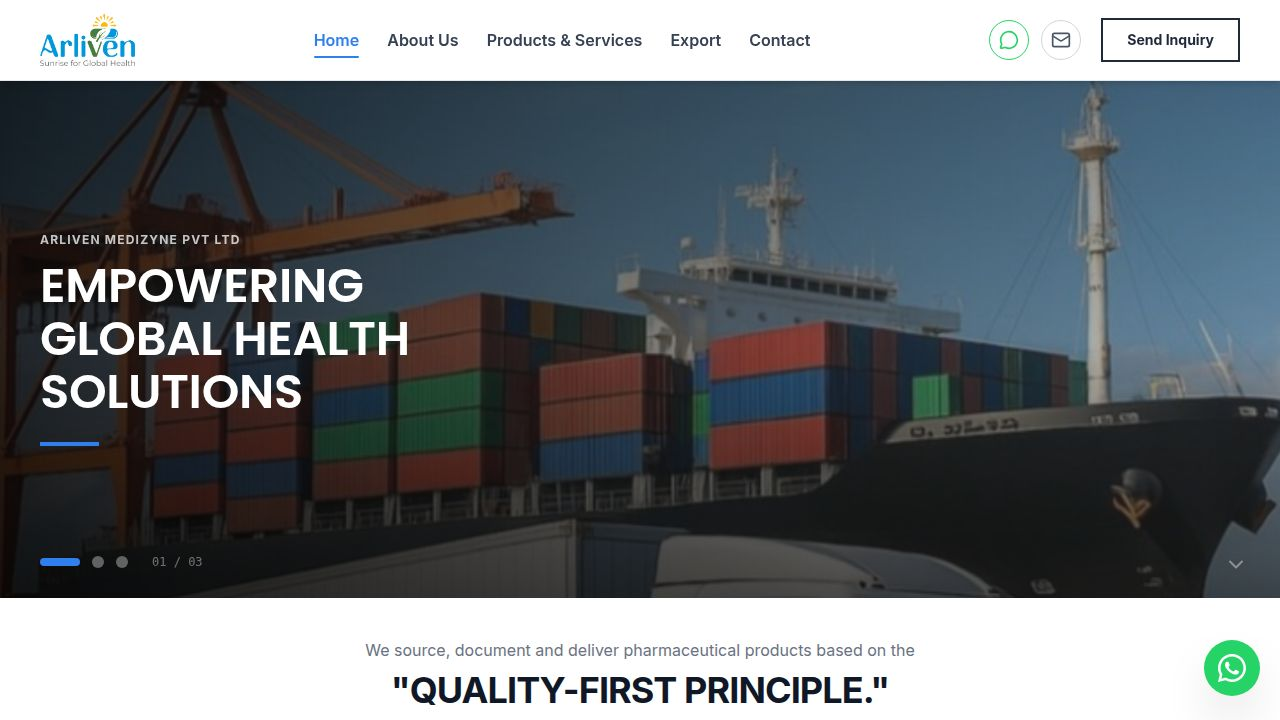
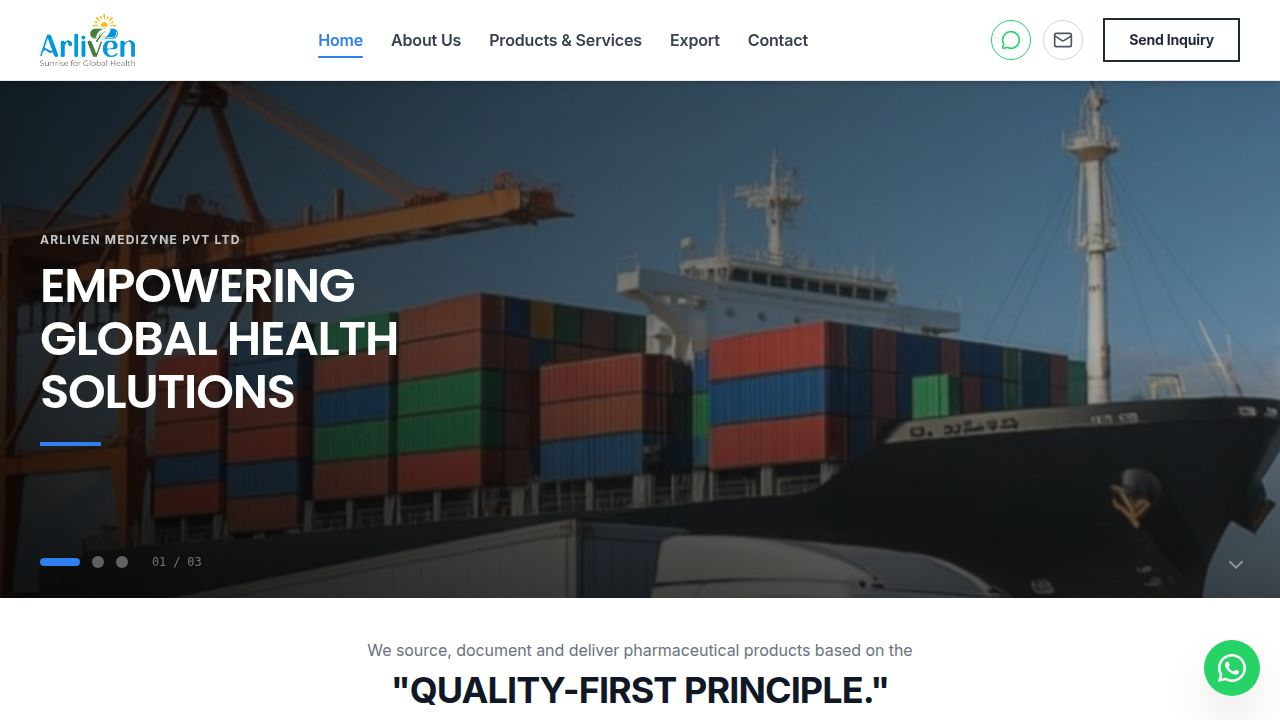
Remove aggressive hover color effects from cards
Removes hover:bg-[#2F80ED], group-hover:text-white, and similar classes across Home, About, Products, and Export pages to clean up card interactions, preserving only the lift animation.

Replit-Commit-Author: Agent
Replit-Commit-Session-Id: 7b5f0ab2-9068-4b1e-a568-a848fbdbbe8f
Replit-Commit-Checkpoint-Type: full_checkpoint
Replit-Commit-Event-Id: 5762872c-eaee-44f3-8e58-980e7949a428
Replit-Commit-Screenshot-Url: https://storage.googleapis.com/screenshot-production-us-central1/0023b57a-7a92-4bcf-8c28-df07c4b7561d/7b5f0ab2-9068-4b1e-a568-a848fbdbbe8f/4nZ3pxO
Replit-Helium-Checkpoint-Created: true

diff --git a/artifacts/arliven-medizyne/src/pages/About.tsx b/artifacts/arliven-medizyne/src/pages/About.tsx
@@ -65,24 +65,24 @@ export default function About() {
           </FadeIn>
           <div className="grid md:grid-cols-2 gap-6">
             <FadeIn>
-              <div className="group bg-[#EEF4FF] p-10 rounded-2xl shadow-sm border border-[#2F80ED]/10 hover:bg-[#2F80ED] active:bg-[#2F80ED] touch-manipulation transition-colors duration-100 cursor-default lift-card">
-                <div className="w-14 h-14 bg-white/70 rounded-xl flex items-center justify-center mb-7 border border-[#2F80ED]/15 group-hover:bg-white/20 group-hover:border-white/20 group-active:bg-white/20 group-active:border-white/20 transition-all duration-100">
-                  <Target className="w-7 h-7 text-[#2F80ED] group-hover:text-white group-active:text-white transition-colors duration-100" />
+              <div className="bg-[#EEF4FF] p-10 rounded-2xl shadow-sm border border-[#2F80ED]/10 cursor-default lift-card">
+                <div className="w-14 h-14 bg-[#EAF2FF] rounded-xl flex items-center justify-center mb-7 border border-[#2F80ED]/15">
+                  <Target className="w-7 h-7 text-[#2F80ED]" />
                 </div>
-                <h3 className="text-2xl font-black mb-4 text-[#1D1D1F] group-hover:text-white group-active:text-white transition-colors duration-100">Our Mission</h3>
-                <p className="text-[#6E6E73] text-lg leading-relaxed group-hover:text-white/80 group-active:text-white/80 transition-colors duration-100">
+                <h3 className="text-2xl font-black mb-4 text-[#1D1D1F]">Our Mission</h3>
+                <p className="text-[#6E6E73] text-lg leading-relaxed">
                   To consistently supply safe, effective, and affordable pharmaceutical products globally by maintaining robust supply chains, adhering to stringent quality compliances, and fostering enduring partnerships.
                 </p>
               </div>
             </FadeIn>
 
             <FadeIn delay={0.2}>
-              <div className="group bg-[#EEF4FF] p-10 rounded-2xl shadow-sm border border-[#2F80ED]/10 hover:bg-[#2F80ED] active:bg-[#2F80ED] touch-manipulation transition-colors duration-100 cursor-default lift-card">
-                <div className="w-14 h-14 bg-white/70 rounded-xl flex items-center justify-center mb-7 border border-[#2F80ED]/15 group-hover:bg-white/20 group-hover:border-white/20 group-active:bg-white/20 group-active:border-white/20 transition-all duration-100">
-                  <Eye className="w-7 h-7 text-[#2F80ED] group-hover:text-white group-active:text-white transition-colors duration-100" />
+              <div className="bg-[#EEF4FF] p-10 rounded-2xl shadow-sm border border-[#2F80ED]/10 cursor-default lift-card">
+                <div className="w-14 h-14 bg-[#EAF2FF] rounded-xl flex items-center justify-center mb-7 border border-[#2F80ED]/15">
+                  <Eye className="w-7 h-7 text-[#2F80ED]" />
                 </div>
-                <h3 className="text-2xl font-black mb-4 text-[#1D1D1F] group-hover:text-white group-active:text-white transition-colors duration-100">Our Vision</h3>
-                <p className="text-[#6E6E73] text-lg leading-relaxed group-hover:text-white/80 group-active:text-white/80 transition-colors duration-100">
+                <h3 className="text-2xl font-black mb-4 text-[#1D1D1F]">Our Vision</h3>
+                <p className="text-[#6E6E73] text-lg leading-relaxed">
                   To be recognized globally as the most reliable and transparent pharmaceutical merchant exporter from India, contributing significantly to a healthier world.
                 </p>
               </div>
@@ -107,13 +107,13 @@ export default function About() {
               { initials: "NC", name: "Nitin B Choure", role: "Director", bio: "Ensuring operational excellence, rigorous quality compliance, and robust international partnerships across all markets." },
             ].map((person, i) => (
               <FadeIn key={i} delay={i * 0.1}>
-                <div className="group bg-[#EEF4FF] p-8 rounded-2xl text-center border border-[#2F80ED]/10 transition-colors duration-100 hover:bg-[#2F80ED] active:bg-[#2F80ED] touch-manipulation cursor-default lift-card">
-                  <div className="w-24 h-24 rounded-full bg-[#2F80ED] mx-auto mb-6 flex items-center justify-center text-white border-4 border-white shadow-lg group-hover:bg-white group-hover:text-[#2F80ED] group-active:bg-white group-active:text-[#2F80ED] transition-all duration-100">
+                <div className="bg-[#EEF4FF] p-8 rounded-2xl text-center border border-[#2F80ED]/10 cursor-default lift-card">
+                  <div className="w-24 h-24 rounded-full bg-[#2F80ED] mx-auto mb-6 flex items-center justify-center text-white border-4 border-white shadow-lg">
                     <span className="text-2xl font-black">{person.initials}</span>
                   </div>
-                  <h3 className="text-xl font-black mb-1 text-[#1D1D1F] group-hover:text-white group-active:text-white transition-colors duration-100">{person.name}</h3>
-                  <p className="text-[#2F80ED] font-semibold text-sm mb-4 group-hover:text-white/80 group-active:text-white/80 transition-colors duration-100">{person.role}</p>
-                  <p className="text-[#6E6E73] text-sm leading-relaxed group-hover:text-white/75 group-active:text-white/75 transition-colors duration-100">{person.bio}</p>
+                  <h3 className="text-xl font-black mb-1 text-[#1D1D1F]">{person.name}</h3>
+                  <p className="text-[#2F80ED] font-semibold text-sm mb-4">{person.role}</p>
+                  <p className="text-[#6E6E73] text-sm leading-relaxed">{person.bio}</p>
                 </div>
               </FadeIn>
             ))}
@@ -148,12 +148,12 @@ export default function About() {
               { icon: Globe, title: "Customer Centricity", desc: "Tailoring our export services to meet the specific regulatory and market needs of each client." },
             ].map((value, idx) => (
               <FadeIn key={idx} delay={idx * 0.1}>
-                <div className="group text-center p-8 bg-[#EEF4FF] rounded-2xl border border-[#2F80ED]/10 transition-colors duration-100 hover:bg-[#2F80ED] active:bg-[#2F80ED] touch-manipulation cursor-default lift-card">
-                  <div className="w-16 h-16 bg-white/70 mx-auto rounded-2xl flex items-center justify-center mb-6 border border-[#2F80ED]/15 group-hover:bg-white/20 group-hover:border-white/20 group-active:bg-white/20 group-active:border-white/20 transition-all duration-100">
-                    <value.icon className="w-8 h-8 text-[#2F80ED] group-hover:text-white group-active:text-white transition-colors duration-100" />
+                <div className="text-center p-8 bg-[#EEF4FF] rounded-2xl border border-[#2F80ED]/10 cursor-default lift-card">
+                  <div className="w-16 h-16 bg-[#EAF2FF] mx-auto rounded-2xl flex items-center justify-center mb-6 border border-[#2F80ED]/15">
+                    <value.icon className="w-8 h-8 text-[#2F80ED]" />
                   </div>
-                  <h3 className="text-xl font-black mb-3 text-[#1D1D1F] group-hover:text-white group-active:text-white transition-colors duration-100">{value.title}</h3>
-                  <p className="text-[#6E6E73] text-base leading-relaxed group-hover:text-white/75 group-active:text-white/75 transition-colors duration-100">{value.desc}</p>
+                  <h3 className="text-xl font-black mb-3 text-[#1D1D1F]">{value.title}</h3>
+                  <p className="text-[#6E6E73] text-base leading-relaxed">{value.desc}</p>
                 </div>
               </FadeIn>
             ))}

diff --git a/artifacts/arliven-medizyne/src/pages/Products.tsx b/artifacts/arliven-medizyne/src/pages/Products.tsx
@@ -99,34 +99,34 @@ export default function Products() {
                 <motion.div
                   whileHover={{ y: -4 }}
                   transition={{ type: "spring", stiffness: 340, damping: 26, mass: 0.8 }}
-                  className="bg-[#EEF4FF] rounded-2xl overflow-hidden border border-[#2F80ED]/10 h-full flex flex-col group shadow-[0_2px_12px_rgba(47,128,237,0.07)] hover:shadow-[0_14px_36px_rgba(47,128,237,0.14)] hover:bg-[#2F80ED] active:bg-[#2F80ED] touch-manipulation transition-colors duration-100"
+                  className="bg-[#EEF4FF] rounded-2xl overflow-hidden border border-[#2F80ED]/10 h-full flex flex-col shadow-[0_2px_12px_rgba(47,128,237,0.07)]"
                 >
                   <div className="h-48 overflow-hidden relative">
                     <img
                       src={`${import.meta.env.BASE_URL}images/${product.image}`}
                       alt={product.category}
-                      className="w-full h-full object-cover group-hover:scale-105 transition-transform duration-500"
+                      className="w-full h-full object-cover transition-transform duration-500 hover:scale-105"
                     />
-                    <div className="absolute inset-0 bg-gradient-to-t from-white/20 to-transparent group-hover:from-[#2F80ED]/40" />
-                    <div className="absolute bottom-3 left-3 w-10 h-10 bg-white rounded-xl flex items-center justify-center text-[#2F80ED] shadow-md group-hover:bg-white/20 group-hover:text-white transition-all duration-300">
+                    <div className="absolute inset-0 bg-gradient-to-t from-white/20 to-transparent" />
+                    <div className="absolute bottom-3 left-3 w-10 h-10 bg-white rounded-xl flex items-center justify-center text-[#2F80ED] shadow-md">
                       <product.icon className="w-5 h-5" />
                     </div>
                   </div>
 
                   <div className="p-6 flex-grow flex flex-col">
-                    <h3 className="text-lg font-black text-[#1D1D1F] mb-2 group-hover:text-white group-active:text-white transition-colors duration-100">{product.category}</h3>
-                    <p className="text-[#6E6E73] text-sm mb-5 leading-relaxed group-hover:text-white/75 group-active:text-white/75 transition-colors duration-100">{product.description}</p>
+                    <h3 className="text-lg font-black text-[#1D1D1F] mb-2">{product.category}</h3>
+                    <p className="text-[#6E6E73] text-sm mb-5 leading-relaxed">{product.description}</p>
                     <div className="space-y-2 mb-6 flex-grow">
                       {product.items.map((item, i) => (
-                        <div key={i} className="flex items-center gap-2 text-sm font-medium text-[#1D1D1F] group-hover:text-white/90 group-active:text-white/90 transition-colors duration-100">
-                          <CheckCircle className="w-4 h-4 text-[#2F80ED] shrink-0 group-hover:text-white group-active:text-white transition-colors duration-100" />
+                        <div key={i} className="flex items-center gap-2 text-sm font-medium text-[#1D1D1F]">
+                          <CheckCircle className="w-4 h-4 text-[#2F80ED] shrink-0" />
                           <span>{item}</span>
                         </div>
                       ))}
                     </div>
                     <Link
                       href="/contact"
-                      className="w-full py-3 text-center rounded-xl border-2 border-[#2F80ED] text-[#2F80ED] font-bold text-sm hover:bg-[#2F80ED] hover:text-white group-hover:border-white group-hover:text-white group-hover:bg-white/20 transition-all duration-300 mt-auto"
+                      className="w-full py-3 text-center rounded-xl border-2 border-[#2F80ED] text-[#2F80ED] font-bold text-sm hover:bg-[#2F80ED] hover:text-white transition-all duration-200 mt-auto"
                     >
                       Inquire Now
                     </Link>
@@ -150,9 +150,9 @@ export default function Products() {
               </p>
               <div className="grid sm:grid-cols-2 gap-3">
                 {services.map((service, idx) => (
-                  <div key={idx} className="group flex items-center gap-3 bg-[#EEF4FF] rounded-xl px-4 py-3 border border-[#2F80ED]/10 hover:bg-[#2F80ED] active:bg-[#2F80ED] hover:border-[#2F80ED] active:border-[#2F80ED] touch-manipulation transition-colors duration-100 cursor-pointer lift-card">
-                    <div className="w-2 h-2 rounded-full bg-[#2F80ED] shrink-0 group-hover:bg-white group-active:bg-white transition-colors duration-100" />
-                    <span className="text-sm font-semibold text-[#1D1D1F] group-hover:text-white group-active:text-white transition-colors duration-100">{service}</span>
+                  <div key={idx} className="flex items-center gap-3 bg-[#EEF4FF] rounded-xl px-4 py-3 border border-[#2F80ED]/10 lift-card">
+                    <div className="w-2 h-2 rounded-full bg-[#2F80ED] shrink-0" />
+                    <span className="text-sm font-semibold text-[#1D1D1F]">{service}</span>
                   </div>
                 ))}
               </div>

diff --git a/artifacts/arliven-medizyne/src/pages/Home.tsx b/artifacts/arliven-medizyne/src/pages/Home.tsx
@@ -204,7 +204,7 @@ export default function Home() {
                 <motion.div
                   whileHover={{ y: -4 }}
                   transition={{ type: "spring", stiffness: 340, damping: 26, mass: 0.8 }}
-                  className="bg-[#EEF4FF] rounded-2xl border border-[#2F80ED]/10 group cursor-default overflow-hidden shadow-[0_2px_12px_rgba(47,128,237,0.07)] hover:shadow-[0_14px_36px_rgba(47,128,237,0.14)] hover:bg-[#2F80ED] active:bg-[#2F80ED] touch-manipulation transition-colors duration-100"
+                  className="bg-[#EEF4FF] rounded-2xl border border-[#2F80ED]/10 cursor-default overflow-hidden shadow-[0_2px_12px_rgba(47,128,237,0.07)]"
                 >
                   <div className="h-44 overflow-hidden">
                     <motion.img
@@ -216,11 +216,11 @@ export default function Home() {
                     />
                   </div>
                   <div className="p-6">
-                    <div className="w-10 h-10 bg-white/60 rounded-xl flex items-center justify-center text-[#2F80ED] mb-4 group-hover:bg-white/20 group-hover:text-white group-active:bg-white/20 group-active:text-white transition-all duration-100">
+                    <div className="w-10 h-10 bg-[#EAF2FF] rounded-xl flex items-center justify-center text-[#2F80ED] mb-4">
                       <feature.icon className="w-5 h-5" />
                     </div>
-                    <h3 className="text-lg font-bold mb-2 text-[#1D1D1F] group-hover:text-white group-active:text-white transition-colors duration-100">{feature.title}</h3>
-                    <p className="text-[#6E6E73] text-sm leading-relaxed group-hover:text-white/75 group-active:text-white/75 transition-colors duration-100">{feature.desc}</p>
+                    <h3 className="text-lg font-bold mb-2 text-[#1D1D1F]">{feature.title}</h3>
+                    <p className="text-[#6E6E73] text-sm leading-relaxed">{feature.desc}</p>
                   </div>
                 </motion.div>
               </FadeIn>
@@ -330,7 +330,7 @@ export default function Home() {
                 <motion.div
                   whileHover={{ y: -4 }}
                   transition={{ type: "spring", stiffness: 340, damping: 26, mass: 0.8 }}
-                  className="bg-[#EEF4FF] border border-[#2F80ED]/10 rounded-2xl overflow-hidden group cursor-default h-full flex flex-col shadow-[0_2px_12px_rgba(47,128,237,0.07)] hover:shadow-[0_14px_36px_rgba(47,128,237,0.14)] hover:bg-[#2F80ED] active:bg-[#2F80ED] touch-manipulation transition-colors duration-100"
+                  className="bg-[#EEF4FF] border border-[#2F80ED]/10 rounded-2xl overflow-hidden cursor-default h-full flex flex-col shadow-[0_2px_12px_rgba(47,128,237,0.07)]"
                 >
                   <div className="h-40 overflow-hidden shrink-0">
                     <motion.img
@@ -342,9 +342,9 @@ export default function Home() {
                     />
                   </div>
                   <div className="p-5 flex-1">
-                    <div className="w-1 h-6 bg-[#2F80ED] mb-3 rounded-full group-hover:bg-white group-active:bg-white transition-colors duration-100" />
-                    <h3 className="text-sm font-bold mb-2 text-[#1D1D1F] group-hover:text-white group-active:text-white transition-colors duration-100 leading-snug">{service.title}</h3>
-                    <p className="text-[#6E6E73] text-xs leading-relaxed group-hover:text-white/75 group-active:text-white/75 transition-colors duration-100">{service.desc}</p>
+                    <div className="w-1 h-6 bg-[#2F80ED] mb-3 rounded-full" />
+                    <h3 className="text-sm font-bold mb-2 text-[#1D1D1F] leading-snug">{service.title}</h3>
+                    <p className="text-[#6E6E73] text-xs leading-relaxed">{service.desc}</p>
                   </div>
                 </motion.div>
               </FadeIn>
@@ -368,9 +368,9 @@ export default function Home() {
               <ul className="space-y-3">
                 {["Southeast Asia", "African Nations", "Middle East / GCC", "CIS Countries"].map((region, i) => (
                   <FadeIn key={i} delay={i * 0.08} direction="right">
-                    <div className="group flex items-center gap-3 bg-[#EEF4FF] rounded-xl px-4 py-3 border border-[#2F80ED]/10 shadow-sm hover:bg-[#2F80ED] active:bg-[#2F80ED] hover:border-[#2F80ED] active:border-[#2F80ED] touch-manipulation transition-all duration-100 cursor-pointer">
-                      <div className="w-2 h-2 rounded-full bg-[#2F80ED] shrink-0 group-hover:bg-white group-active:bg-white transition-colors duration-100" />
-                      <span className="font-semibold text-[#1D1D1F] text-sm group-hover:text-white group-active:text-white transition-colors duration-100">{region}</span>
+                    <div className="flex items-center gap-3 bg-[#EEF4FF] rounded-xl px-4 py-3 border border-[#2F80ED]/10 shadow-sm lift-card">
+                      <div className="w-2 h-2 rounded-full bg-[#2F80ED] shrink-0" />
+                      <span className="font-semibold text-[#1D1D1F] text-sm">{region}</span>
                     </div>
                   </FadeIn>
                 ))}

diff --git a/artifacts/arliven-medizyne/src/pages/Export.tsx b/artifacts/arliven-medizyne/src/pages/Export.tsx
@@ -46,8 +46,8 @@ export default function Export() {
             <div className="grid md:grid-cols-4 gap-8 relative z-10">
               {steps.map((step, idx) => (
                 <FadeIn key={idx} delay={idx * 0.15} className="text-center relative">
-                  <div className="group w-24 h-24 mx-auto bg-[#EEF4FF] border-4 border-[#EEF4FF] shadow-xl rounded-2xl flex items-center justify-center mb-6 relative hover:bg-[#2F80ED] active:bg-[#2F80ED] hover:border-[#2F80ED] active:border-[#2F80ED] touch-manipulation transition-colors duration-100 cursor-pointer lift-card">
-                    <step.icon className="w-9 h-9 text-[#2F80ED] group-hover:text-white group-hover:scale-110 group-active:text-white group-active:scale-110 transition-all duration-100" />
+                  <div className="w-24 h-24 mx-auto bg-[#EEF4FF] border-4 border-[#EEF4FF] shadow-xl rounded-2xl flex items-center justify-center mb-6 relative lift-card">
+                    <step.icon className="w-9 h-9 text-[#2F80ED]" />
                     <div className="absolute -top-3 -right-3 w-7 h-7 rounded-full bg-[#2F80ED] text-white flex items-center justify-center font-black text-xs shadow-lg">
                       {idx + 1}
                     </div>
@@ -69,9 +69,9 @@ export default function Export() {
               <h2 className="text-3xl font-black mb-8 text-[#1D1D1F]">Global Destinations</h2>
               <div className="grid sm:grid-cols-2 gap-3">
                 {["Asia", "Africa", "Middle East", "Southeast Asia", "CIS Countries", "Latin America"].map((region, i) => (
-                  <div key={i} className="group bg-[#EEF4FF] rounded-xl px-5 py-4 border border-[#2F80ED]/10 flex items-center gap-3 hover:bg-[#2F80ED] active:bg-[#2F80ED] hover:border-[#2F80ED] active:border-[#2F80ED] touch-manipulation transition-colors duration-100 shadow-sm cursor-pointer lift-card">
-                    <Globe className="w-5 h-5 text-[#2F80ED] shrink-0 group-hover:text-white group-active:text-white transition-colors duration-100" />
-                    <span className="text-[#1D1D1F] font-semibold text-sm group-hover:text-white group-active:text-white transition-colors duration-100">{region}</span>
+                  <div key={i} className="bg-[#EEF4FF] rounded-xl px-5 py-4 border border-[#2F80ED]/10 flex items-center gap-3 shadow-sm lift-card">
+                    <Globe className="w-5 h-5 text-[#2F80ED] shrink-0" />
+                    <span className="text-[#1D1D1F] font-semibold text-sm">{region}</span>
                   </div>
                 ))}
               </div>